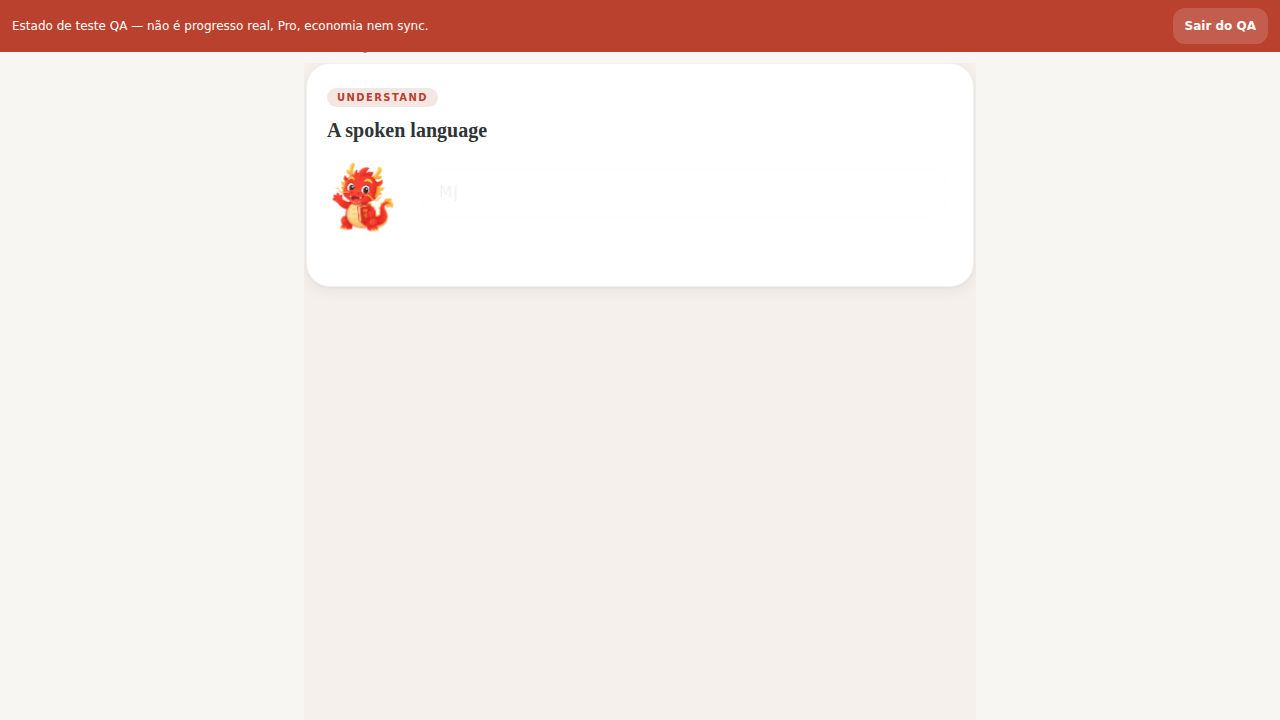
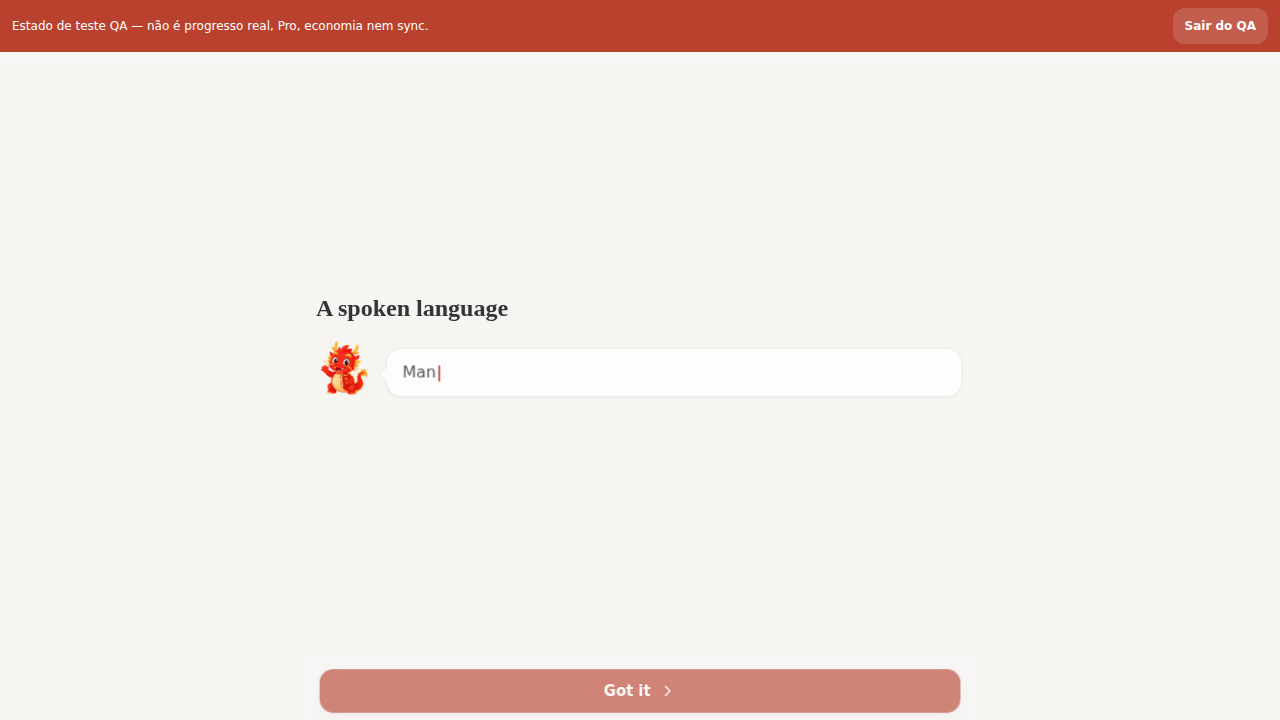
RC2.2.19: story scene shell, profile/account discoverability, reward-secondary completion
P2 IMMERSION_TOO_STATIC / PROFILE_ACCOUNT_DISCOVERABILITY / LOGOUT_DISCOVERABILITY.

- InteractiveStoryPlayer evolves into the StorySceneShell (no new story
  engine): explicit ONDE / COM QUEM / OBJETIVO pre-screen, the current
  speaker highlighted, recap "Você conseguiu" before the rewards.
- Profile first fold: avatar, name, @username, medal count, Editar and
  Amigos in one row (fits 360px).
- Mais: "Você" block at the top with Perfil, Conta, Aparência and Sair;
  Excluir conta stays separate in Conta behind confirmation.
- Guided lesson completion: one primary "Continuar" that also claims the
  rewards (rewards secondary, recap first).

Claude-Session: https://claude.ai/code/session_01DaUJEUSjk7MdXt2J2d5hMS

diff --git a/src/features/immersion/ImmersionPage.tsx b/src/features/immersion/ImmersionPage.tsx
@@ -1012,12 +1012,15 @@ function InteractiveStoryPlayer({
     return (
       <div className="mx-auto max-w-xl py-6 text-center sm:py-12">
         <Mascot size={126} variant="celebrate" className="mx-auto" />
-        <div className="mt-4 text-xs font-semibold uppercase tracking-[0.16em] text-accent">História concluída</div>
-        <h1 className="mt-2 font-serif text-3xl font-semibold text-ink">{story.title}</h1>
+        <div className="mt-4 text-xs font-semibold uppercase tracking-[0.16em] text-accent">{story.title}</div>
+        <h1 className="mt-2 font-serif text-3xl font-semibold text-ink" data-testid="story-victory-headline">
+          Você conseguiu
+        </h1>
         <p className="mx-auto mt-2 max-w-md text-ink-soft">
-          Você praticou em contexto e mandou os pontos fracos para revisão.
+          {story.context?.goalPt ? `Objetivo cumprido: ${story.context.goalPt}` : "Você praticou em contexto e mandou os pontos fracos para revisão."}
         </p>
 
+        {/* Recap (o que você disse e ouviu) ANTES das recompensas. */}
         <StoryRecap story={story} learnerName={learnerName} studentName={studentName} />
 
         <div className="mx-auto mt-6 grid max-w-sm grid-cols-3 gap-2">
@@ -1071,8 +1074,11 @@ function InteractiveStoryPlayer({
     );
   }
 
+  // RC2.2.19 — StorySceneShell: o próprio InteractiveStoryPlayer (sem motor
+  // novo) em cena — pré-tela ONDE/COM QUEM/OBJETIVO, bolhas com quem fala
+  // agora, glossário e áudio, recap "Você conseguiu".
   return (
-    <div className="mx-auto max-w-2xl space-y-4">
+    <div className="mx-auto max-w-2xl space-y-4" data-story-scene-shell data-story-phase={contextOpen ? "prescreen" : "scene"}>
       <button
         type="button"
         onClick={() => {
@@ -1303,9 +1309,15 @@ function StoryContextCard({ story, onStart }: { story: InteractiveStory; onStart
   return (
     <Card className="rounded-2xl border-line/70 p-4 shadow-none sm:p-5" data-testid="story-context-card">
       <div className="text-[10px] font-bold uppercase tracking-[0.14em] text-accent">Antes da cena</div>
-      <p className="mt-2 text-sm leading-6 text-ink">{story.context?.wherePt}</p>
+      <div className="mt-3" data-story-where>
+        <div className="text-[11px] font-bold uppercase tracking-[0.12em] text-ink-faint">Onde</div>
+        <p className="mt-0.5 text-sm leading-6 text-ink">{story.context?.wherePt}</p>
+      </div>
       {cast.length > 0 && (
-        <ul className="mt-3 grid gap-2" data-testid="story-context-cast">
+        <div className="mt-3 text-[11px] font-bold uppercase tracking-[0.12em] text-ink-faint">Com quem</div>
+      )}
+      {cast.length > 0 && (
+        <ul className="mt-1 grid gap-2" data-testid="story-context-cast" data-story-who>
           {cast.map((member) => (
             <li key={member.id} className="flex min-w-0 items-center gap-2 text-sm">
               <StoryAvatar cast={member} learnerName="" />
@@ -1318,9 +1330,10 @@ function StoryContextCard({ story, onStart }: { story: InteractiveStory; onStart
           ))}
         </ul>
       )}
-      <p className="mt-3 rounded-xl bg-surface-2 px-3 py-2 text-sm text-ink-soft">
-        <span className="font-semibold text-ink">Objetivo:</span> {story.context?.goalPt}
-      </p>
+      <div className="mt-3 rounded-xl bg-surface-2 px-3 py-2" data-story-objective>
+        <div className="text-[11px] font-bold uppercase tracking-[0.12em] text-ink-faint">Objetivo</div>
+        <p className="mt-0.5 text-sm text-ink">{story.context?.goalPt}</p>
+      </div>
       <Button className="mt-4 w-full" data-testid="story-context-start" onClick={onStart}>
         Começar a cena <IconChevron width={18} height={18} />
       </Button>
@@ -1434,11 +1447,13 @@ function StoryTurn({
       data-testid="story-current-turn"
       data-side={cast.side}
       data-speaker={cast.id}
+      data-active-speaker="true"
     >
       <StorySpeakerLabel cast={cast} learnerName={learnerName} />
       <div
         className={[
-          "w-full min-w-0 space-y-3 rounded-2xl p-3.5 sm:max-w-xl sm:p-4",
+          // Quem fala AGORA fica em destaque (anel), as falas passadas não.
+          "w-full min-w-0 space-y-3 rounded-2xl p-3.5 ring-2 ring-accent/35 sm:max-w-xl sm:p-4",
           cast.side === "right" ? "rounded-tr-md bg-accent-soft/60" : "rounded-tl-md border border-line/70 bg-surface",
         ].join(" ")}
       >

diff --git a/src/features/more/MorePage.tsx b/src/features/more/MorePage.tsx
@@ -1,7 +1,9 @@
 import { useEffect, useState } from "react";
 import { BetaBadge } from "../../components/feedback/BetaBadge";
 import { FeedbackPrompt } from "../../components/feedback/FeedbackPrompt";
-import { IconShield } from "../../components/ui/Icon";
+import { Link } from "react-router-dom";
+import { IconGear, IconShield, IconSun, IconUser } from "../../components/ui/Icon";
+import { useCloudSignOut } from "../../hooks/useCloudSignOut";
 import { isAdminEmail } from "../../lib/feedback";
 import { useStore } from "../../lib/store";
 import { dueItems } from "../../lib/srs";
@@ -150,6 +152,12 @@ export function MorePage() {
     });
   }
 
+  // RC2.2.19 — Perfil/Conta/Aparência/Sair no topo: nunca escondidos no fim da lista.
+  const accountSection = sections.find((section) => section.id === "account");
+  if (accountSection) {
+    accountSection.items = accountSection.items.filter((hubItem) => hubItem.to !== "/perfil" && hubItem.to !== "/conta");
+  }
+
   return (
     <HubPage>
       <HubHeader
@@ -159,6 +167,8 @@ export function MorePage() {
         badge={<BetaBadge />}
       />
 
+      <MoreYouBlock />
+
       {sections.map((section) => (
         <HubSection key={section.id} title={section.title}>
           <HubNavGrid items={section.items} />
@@ -167,5 +177,38 @@ export function MorePage() {
 
       <FeedbackPrompt context={{ screen: "/mais" }} compact />
     </HubPage>
+  );
+}
+
+/**
+ * RC2.2.19 — "Você": Perfil, Conta, Aparência e Sair logo no topo do Mais
+ * (P2 PROFILE_ACCOUNT_DISCOVERABILITY / LOGOUT_DISCOVERABILITY). Excluir conta
+ * NÃO fica aqui: mora separado, no fim de Conta, atrás de confirmação.
+ */
+function MoreYouBlock() {
+  const { t } = useTranslation();
+  const { signOut, canSignOut } = useCloudSignOut();
+  const tile =
+    "flex min-h-14 items-center gap-2 rounded-2xl border border-line bg-surface px-3 text-sm font-semibold text-ink transition hover:bg-surface-2 focus-visible:outline-none focus-visible:ring-2 focus-visible:ring-accent/45";
+  return (
+    <section className="mb-5" data-testid="more-you">
+      <h2 className="mb-2 text-[11px] font-bold uppercase tracking-[0.14em] text-ink-faint">{t("navigation.groupYou")}</h2>
+      <div className="grid grid-cols-2 gap-2 sm:grid-cols-4">
+        <Link to="/perfil" className={tile} data-testid="more-profile">
+          <IconUser width={18} height={18} className="text-accent" /> {t("navigation.profile")}
+        </Link>
+        <Link to="/conta" className={tile} data-testid="more-account">
+          <IconGear width={18} height={18} className="text-accent" /> {t("navigation.account")}
+        </Link>
+        <Link to="/config/aparencia" className={tile} data-testid="more-appearance">
+          <IconSun width={18} height={18} className="text-accent" /> {t("navigation.appearance")}
+        </Link>
+        {canSignOut && (
+          <button type="button" onClick={() => void signOut()} className={`${tile} text-wrong`} data-testid="more-sign-out">
+            {t("common.signOut")}
+          </button>
+        )}
+      </div>
+    </section>
   );
 }

diff --git a/src/features/perfil/ProfilePage.tsx b/src/features/perfil/ProfilePage.tsx
@@ -10,7 +10,7 @@ import { ALL_LESSONS } from "../../data/journey";
 import { DOMAIN_META, DOMAIN_ORDER } from "../../data/domains";
 import { engineInsights } from "../../lib/engineIntelligence";
 import { LEAGUE_META, normalizeLeagueTier } from "../../lib/leagues";
-import { ACHIEVEMENTS } from "../../data/achievements";
+import { ACHIEVEMENTS, isMedalAchievementId } from "../../data/achievements";
 import { buildMissionViews, type MissionView } from "../../data/missions";
 import { useLeagueData } from "../../hooks/useLeagueData";
 import { Mascot } from "../../components/brand/Mascot";
@@ -121,6 +121,7 @@ export function ProfilePage() {
   // RC2.2.11 — só o nome de usuário REAL (nunca um apelido derivado do nome,
   // nunca o email). Sem username, não inventamos um.
   const handle = formatUsernameHandle(account?.username);
+  const medalCount = Object.keys(achievementsUnlocked).filter(isMedalAchievementId).length;
   const since = memberSinceLabel(account?.createdAt);
   const tier = normalizeLeagueTier(league.leagueTier);
   const leagueName = LEAGUE_META[tier]?.name ?? "Liga Bronze";
@@ -284,9 +285,21 @@ export function ProfilePage() {
             )}
           </div>
         </div>
-        <div className="w-full shrink-0 sm:w-auto [&>*]:w-full sm:[&>*]:w-auto">
+        {/* RC2.2.19 — primeira dobra: medalhas, Editar e Amigos à mão. */}
+        <div className="grid w-full shrink-0 grid-cols-3 gap-2 sm:flex sm:w-auto" data-testid="profile-first-fold-actions">
+          <a
+            href="#medalhas"
+            className="inline-flex min-h-11 items-center justify-center gap-1 rounded-xl bg-surface-2 px-2 text-sm font-semibold text-ink"
+            data-testid="profile-medal-count"
+            aria-label={t("hub.medalCount", { n: medalCount })}
+          >
+            🏅 {medalCount}
+          </a>
           <ActionButton to="/conta" variant="secondary" size="sm" icon={<IconUser width={15} height={15} />}>
-            {t("hub.editProfile")}
+            {t("hub.editShort")}
+          </ActionButton>
+          <ActionButton to="/amigos" variant="secondary" size="sm" data-testid="profile-friends-link">
+            {t("hub.friends")}
           </ActionButton>
         </div>
       </Card>
@@ -300,7 +313,7 @@ export function ProfilePage() {
 
       {/* 2a · RC2.2.8 — vitrine: medalhas (achievement) e passaporte (selos) são
           blocos separados de propósito. Selo ≠ medalha. */}
-      <div className="grid gap-3 lg:grid-cols-2 lg:items-start">
+      <div id="medalhas" className="grid scroll-mt-20 gap-3 lg:grid-cols-2 lg:items-start">
         <FeaturedMedals />
         <CulturePassportCard />
       </div>

diff --git a/src/features/lesson/LessonPlayer.tsx b/src/features/lesson/LessonPlayer.tsx
@@ -4495,7 +4495,9 @@ export function LessonPlayer() {
     function handlePrimaryAction() {
       if (hasUnclaimedRewards) {
         claimLessonRewards();
-        return;
+        // RC2.2.19 / RC2.2.17B · CR — no shell guiado a recompensa é
+        // secundária: o CTA é "Continuar" e resgata no mesmo toque.
+        if (!guidedShell) return;
       }
       // P6/P15 — o único caso em que a Victory abre outra sessão: o Reforço +
       // pedido pela média das quatro rodadas. Continua sendo um CTA só.
@@ -4676,7 +4678,7 @@ export function LessonPlayer() {
                     }
                   : undefined
           }
-          primaryLabel={hasUnclaimedRewards ? t("player.claimRewards") : journeyCta}
+          primaryLabel={hasUnclaimedRewards && !guidedShell ? t("player.claimRewards") : journeyCta}
           primaryTestId={lesson.lessonDomain === "culture" ? "culture-back-journey" : "topic-victory-return"}
           onPrimary={handlePrimaryAction}
         />

diff --git a/src/locales/en.ts b/src/locales/en.ts
@@ -79,6 +79,8 @@ export const en: MessageCatalog = {
     groupLearn: "Learn",
     groupMotivation: "Motivation",
     groupAccount: "Account",
+    groupYou: "You",
+    appearance: "Appearance",
     groupExplore: "Explore",
     groupSystem: "System",
     groupMore: "More",
@@ -2155,6 +2157,9 @@ export const en: MessageCatalog = {
     achievementMedalsLead: "Medals from your journey — recent and next up.",
     seeAllAchievements: "See all achievements",
     editProfile: "Edit profile",
+    editShort: "Edit",
+    medalCount: "{n} medals",
+    friends: "Friends",
     studyingSince: "studying since {date}",
     shopCatQi: "Qi — everyday",
     shopCatQiDesc: "Comfort and convenience with the common currency.",

diff --git a/src/locales/pt-BR.ts b/src/locales/pt-BR.ts
@@ -77,6 +77,8 @@ export const ptBR = {
     groupLearn: "Aprender",
     groupMotivation: "Motivação",
     groupAccount: "Conta",
+    groupYou: "Você",
+    appearance: "Aparência",
     groupExplore: "Explorar",
     groupSystem: "Sistema",
     groupMore: "Mais",
@@ -2159,6 +2161,9 @@ export const ptBR = {
     achievementMedalsLead: "Medalhas da sua jornada — recentes e as mais próximas.",
     seeAllAchievements: "Ver todas as conquistas",
     editProfile: "Editar perfil",
+    editShort: "Editar",
+    medalCount: "{n} medalhas",
+    friends: "Amigos",
     studyingSince: "estuda desde {date}",
     shopCatQi: "Qi — dia a dia",
     shopCatQiDesc: "Conforto e conveniência com a moeda comum.",
